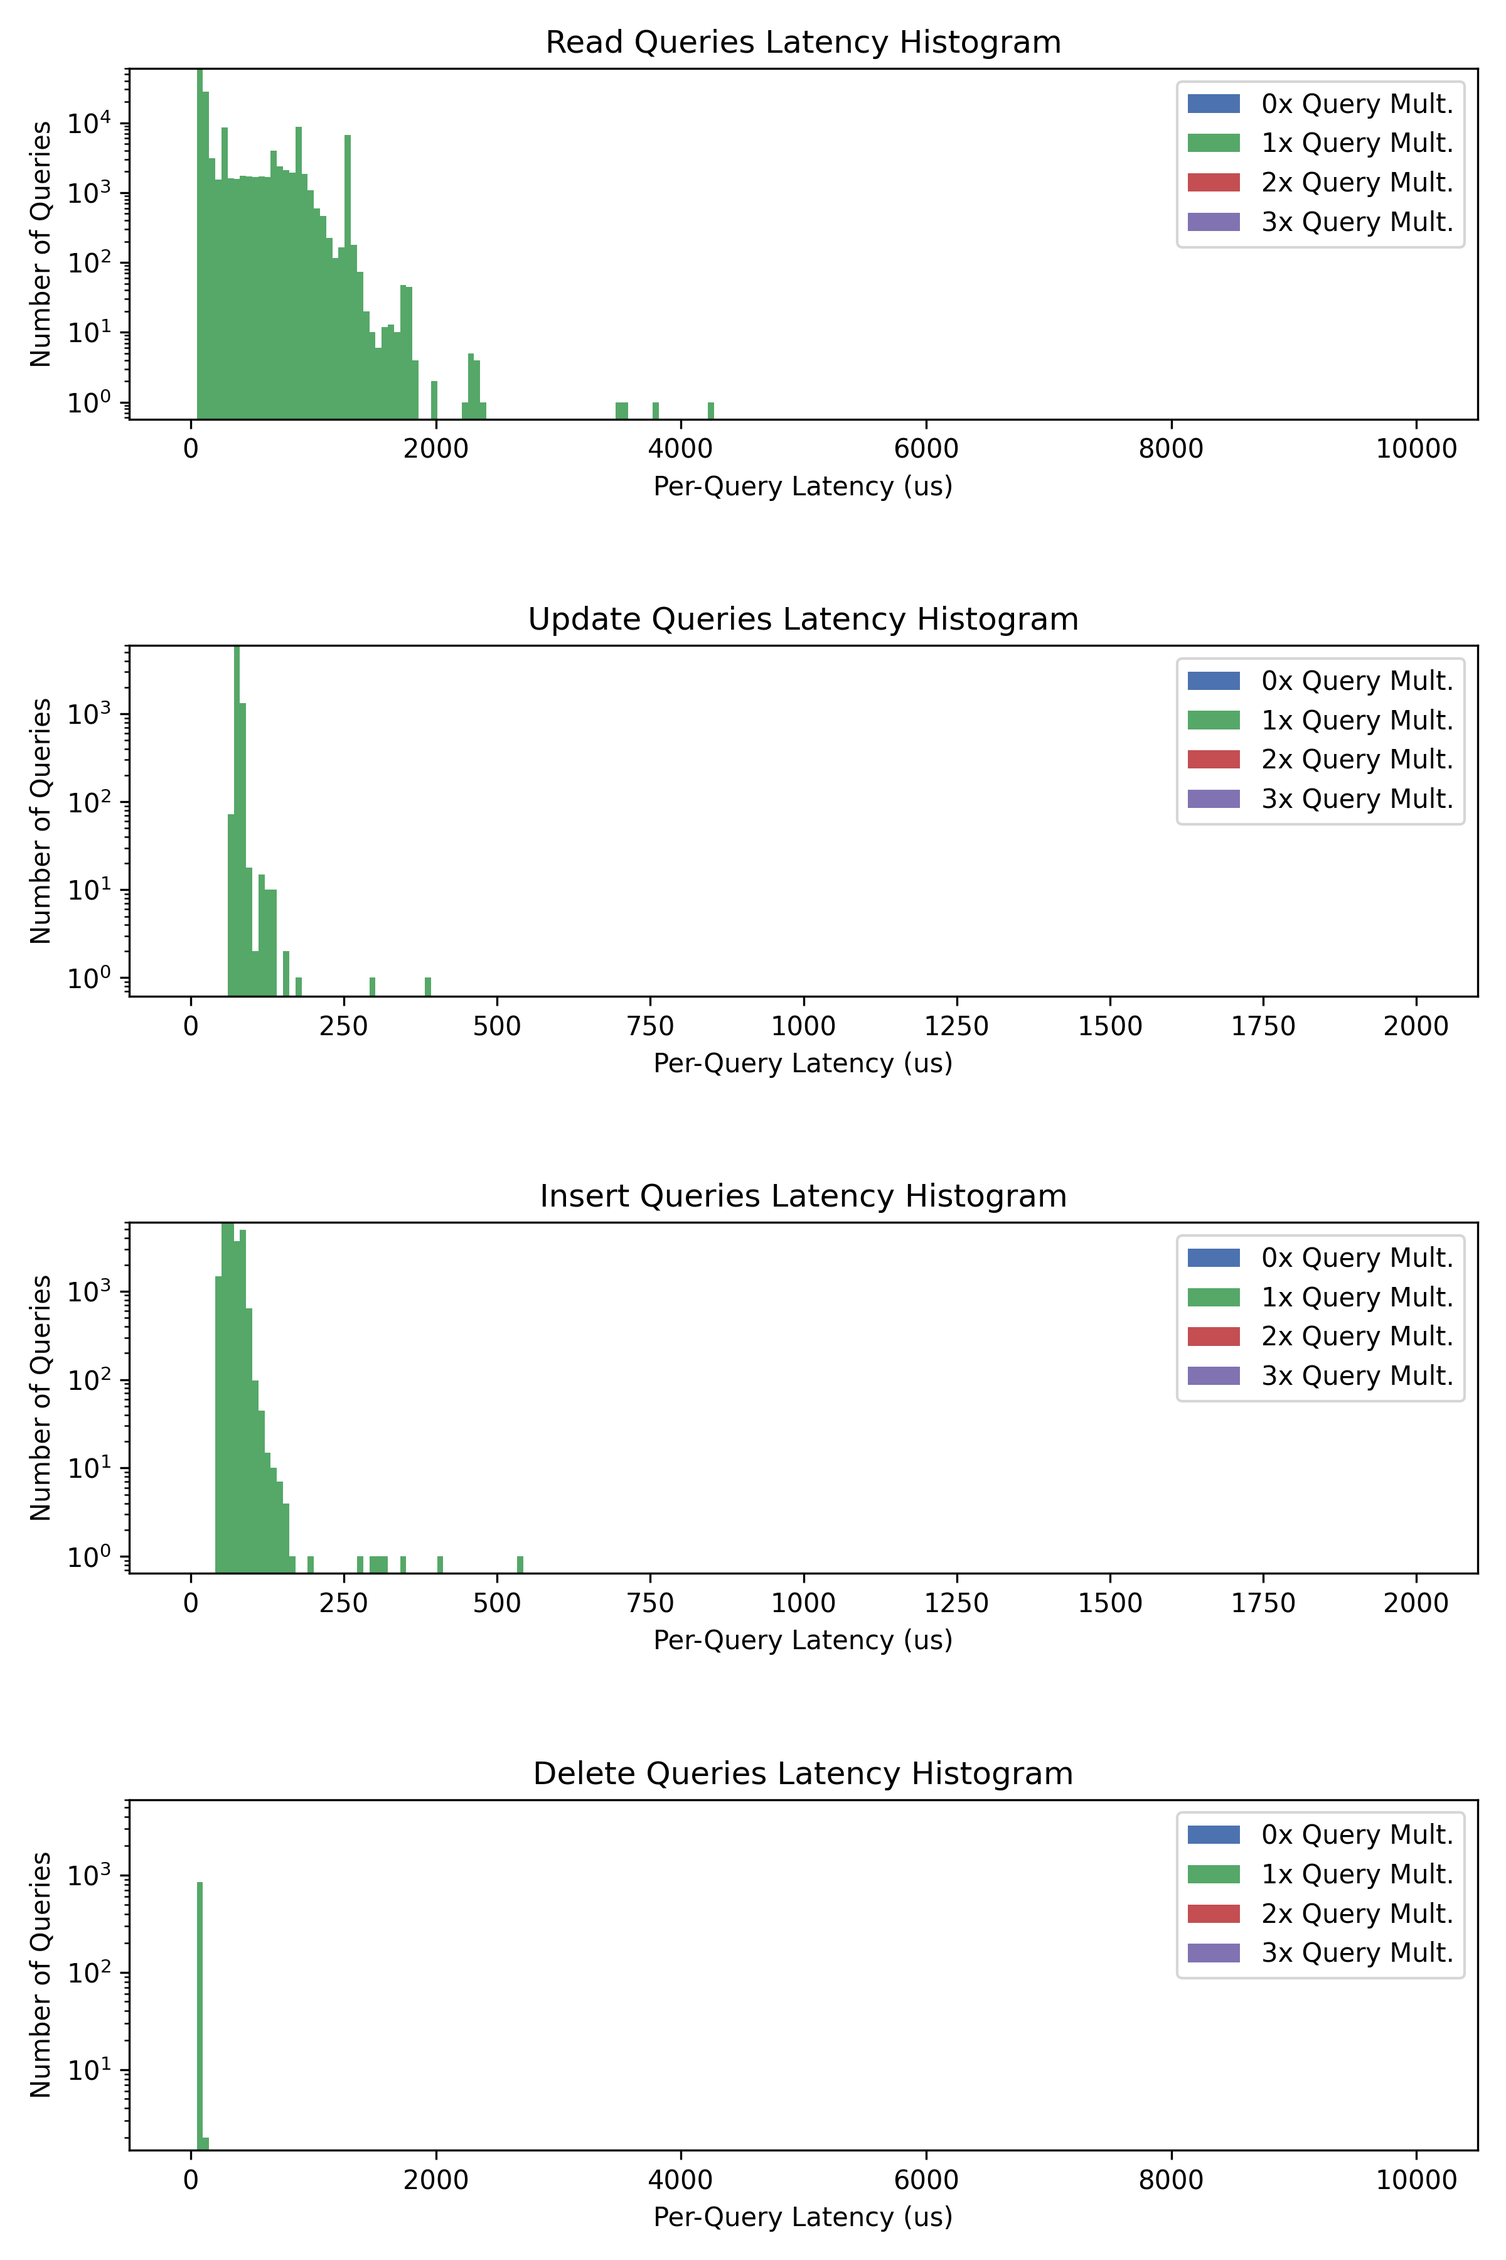
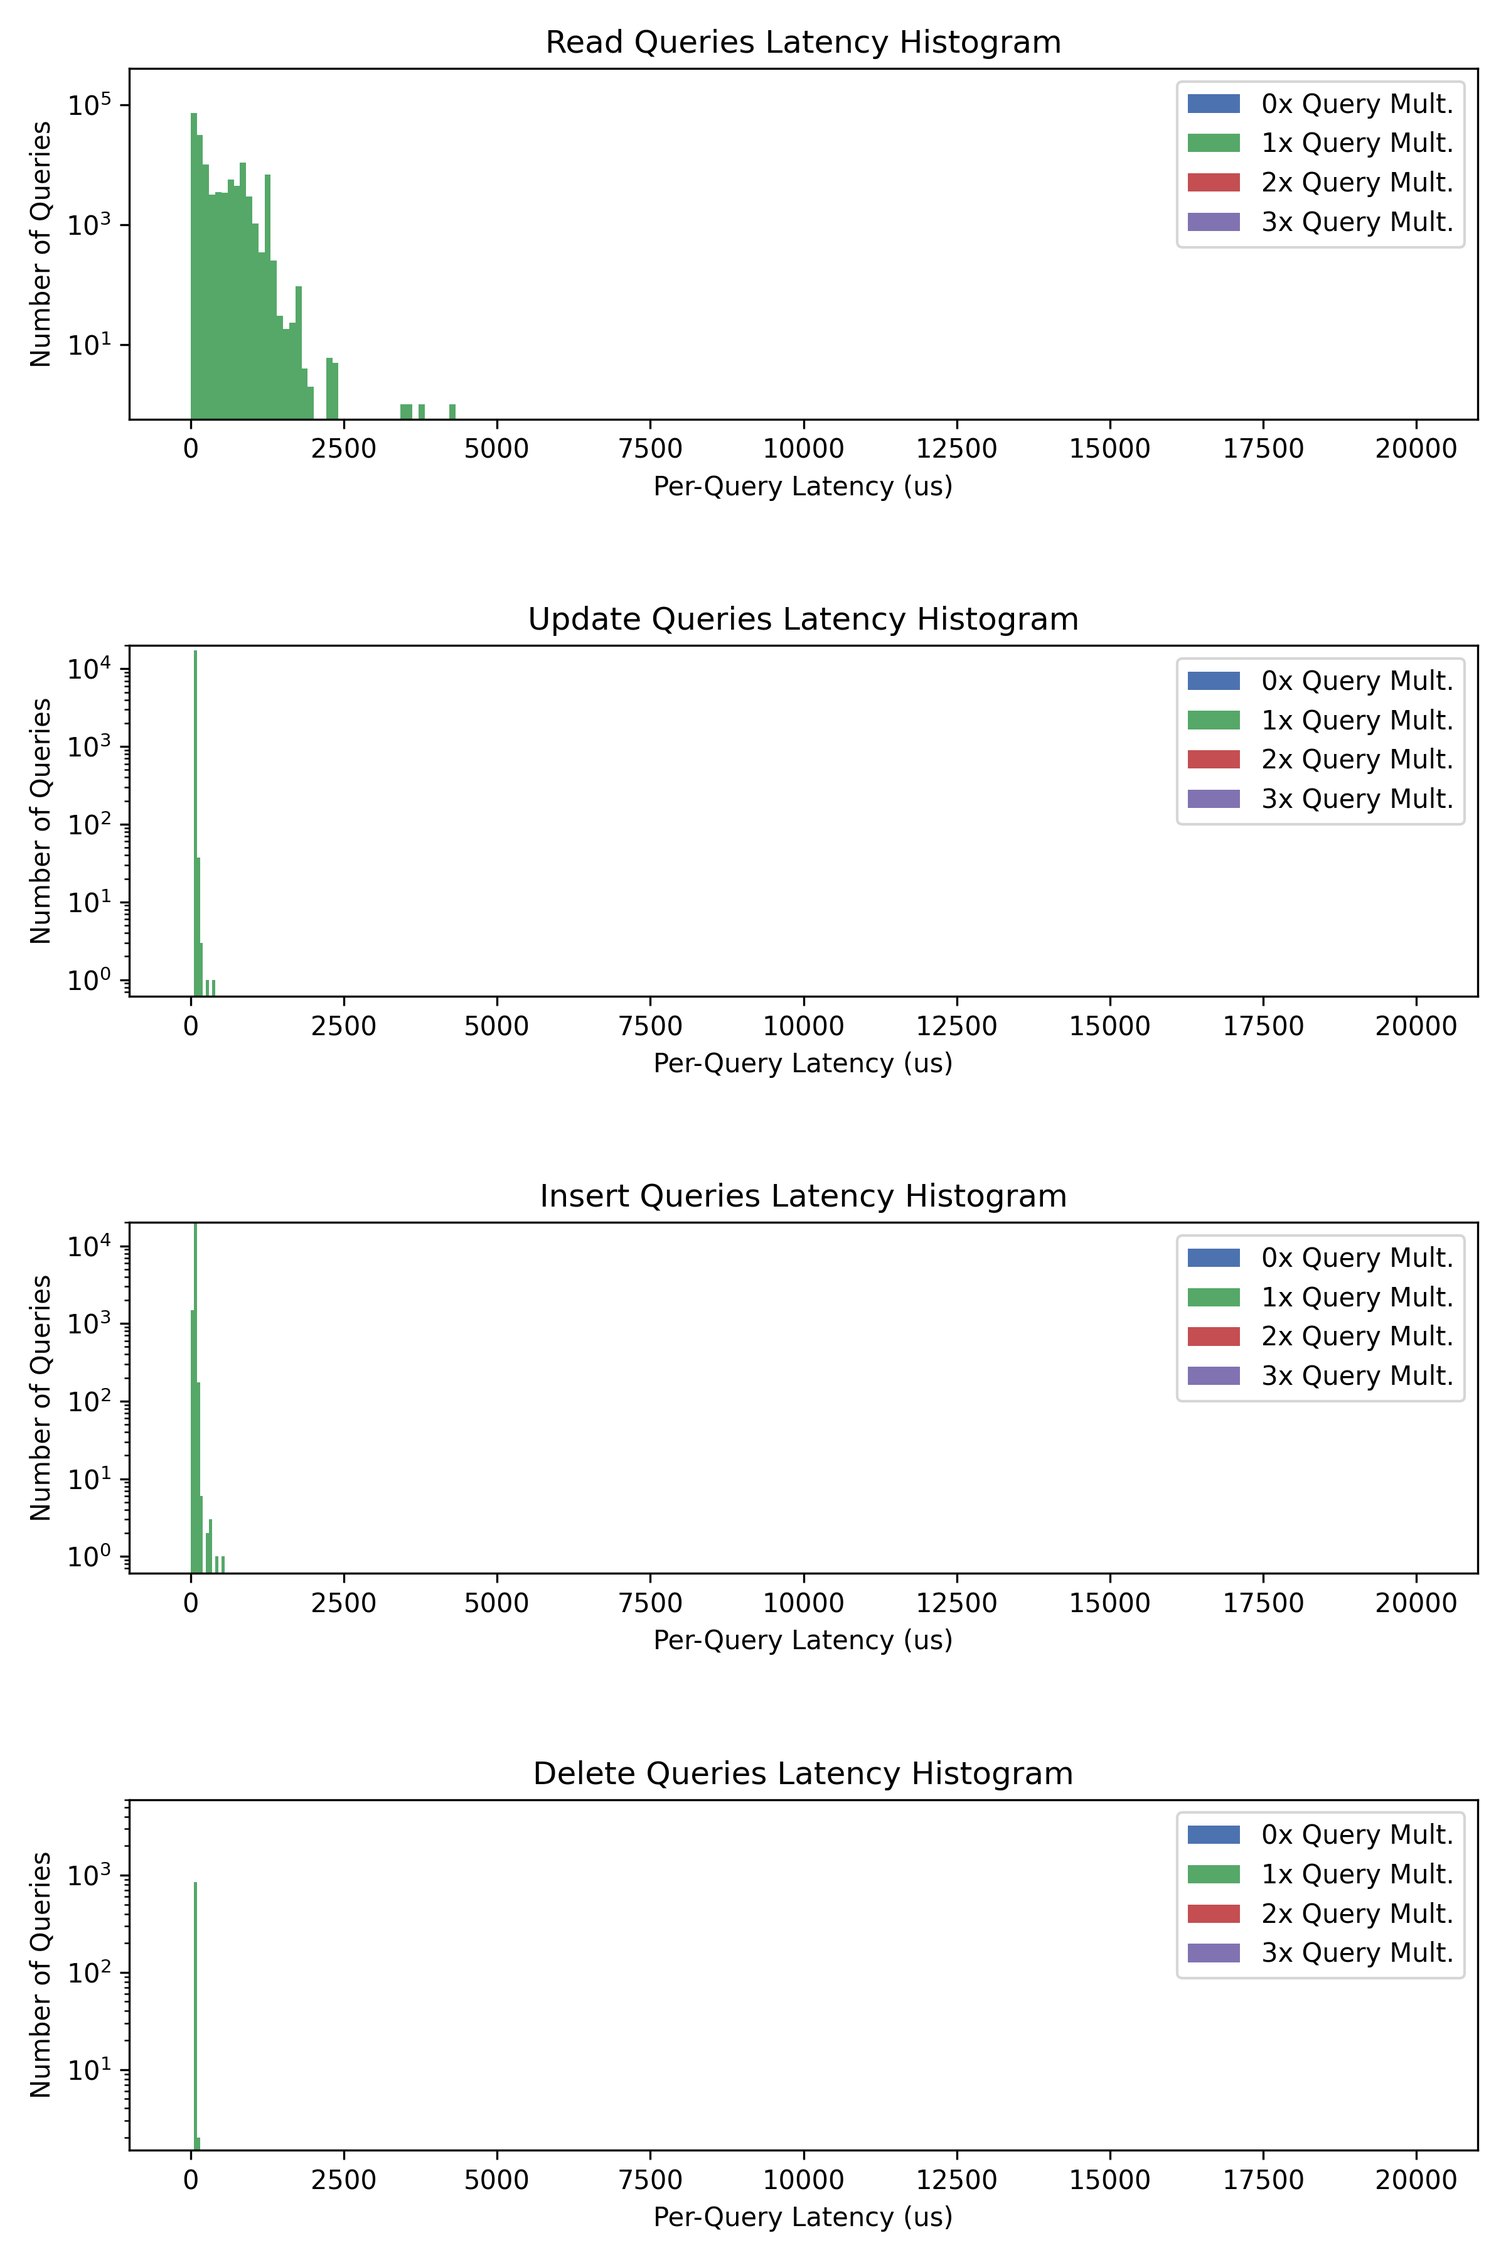
writing up eval

diff --git a/osdi21/eval.tex b/osdi21/eval.tex
@@ -1,16 +1,120 @@
 %-------------------------------------------------------------------------------
 \section{Evaluation}
 %-------------------------------------------------------------------------------
-
 We evaluate \sys{} on two metrics: (1) can desired decorrelation policies be easily specified using the
 provided decorrelation primitives for a range of practical applications?, and (2) can decorrelation
 be supported with low performance overhead?
 
 Our evaluation exemplifies how a suite of applications (Lobste.rs, \lyt{TODO}) can express a diverse
-range of privacy policies using \sys{} with low developer effort.
+range of privacy policies using \sys{} with low developer effort with low overhead.
 
-\subsection{Lobste.rs}
+\subsection{Example policies}
+\begin{figure}
+\begin{lstlisting}[language=Rust]
+use GhostColumnPolicy, GeneratePolicy;
+let ghost_policies = GhostGenerationPolicy::new(
+  ("users", 
+     [("id", Generate(Random)),
+     ("username", Generate(Random)),
+     ("karma", Generate(Default(0)))]),
+  ...);
+
+let edge_policies = vec![
+  KeyRelationship{
+    child: "stories".to_string(),
+    parent: "users".to_string(),
+    column_name: "user_id".to_string(),
+    parent_child_decorrelation_policy: Decor,
+    child_parent_decorrelation_policy: NoDecorRetain,
+  },
+  KeyRelationship{
+    child: "taggings".to_string(),
+    parent: "tags".to_string(),
+    column_name: "tag_id".to_string(),
+    parent_child_decorrelation_policy: 
+        NoDecorSensitivity(0.25),
+    child_parent_decorrelation_policy: NoDecorRetain,
+  },
+  ...];
+
+ ApplicationPolicy {
+    entity_type_to_decorrelate: "users",
+    ghost_policies: ghost_policies,
+    edge_policies: edge_policies,
+ }
+\end{lstlisting}
+    \label{fig:policy}
+    \caption{Excerpt of the Lobsters Application Policy}
+\end{figure}
+
+We provide several variants of an application policy for Lobsters. Each requires specifying at most 17 key
+relationships and at most 5 ghost entity generation policies (see Figure~\ref{fig:policy} for an example
+of what these policies). The total number of lines that a developer must write range from \lyt{TODO}
+to \lyt{TODO} LoC (current policy is 190LoC).
+
+The first policy replicates what the behavior of the current Lobsters deployment upon user
+unsubscription, with the exception that users are replaced with ghost users rather than a global
+placeholder. This requires specifying \texttt{Decor} policies for all edges from entities with users
+as parents, resulting in the developer writing 9 edge policies and one ghost generation policy (for
+ghost users). While this policy does nothing significant, splitting a user into multiple ghosts as
+compared to a global placeholder allows the user to resubscribe by identifying their ghost
+counterparts, whereas a global placeholder does not. Furthermore, splitting users into multiple
+users as compared to grouping them together upon unsubscription may benefit privacy: global
+placeholder users indicate that any child of the placeholder belongs to some deleted user, whereas
+ghost users may more successfully mask which children have been abandoned.
+
+The second policy adds decorrelation of 
+
+\subsection{Performance}
+\paragraph{Experimental Setup.}
 The performance experiments reported are run on Intel Xeon E5-2660 v3 CPUs, with a
-single-threaded client and \sys{}'s shim layer each pinned to a single core. \sys{} utilizes the
-trawler workload~\cite{trawler} for Lobste.rs, which emulates production Lobste.rs traffic according
-to a recorded production workload. 
+single-threaded client and \sys{}'s shim layer each pinned to a single core. \sys{} runs on top of 
+MariaDB (v10.4.13). 
+
+We compare the application execution performance on four systems, all of which configure MariaDB to
+store the database on a ramdisk to avoid disk IO overheads.
+\begin{enumerate}
+    \item \texttt{NoShim}: queries are directly issued to a MariaDB instance;
+    \item \texttt{Shim}: queries are intercepted by the shim layer,
+        which does nothing more than send queries to the MariaDB instance and
+        return the results back to the client;
+    \item \texttt{ShimParsing}: queries are intercepted the shim layer, parsed into a
+        SQL AST (which is discarded), and then sent to the MariaDB instance; the shim then returns the results to the
+        client. 
+    \item \texttt{\sys{}}: queries are intercepted by the shim layer and parsed into a SQL AST. \sys{}
+        then processes the parsed query, potentially introducing ghost entities and sending additional queries to the MariaDB backend.
+        \sys{} then returns results to the client.
+\end{enumerate}
+
+We compare \texttt{NoShim} and \texttt{Shim} to define the cost of query interception; \texttt{Shim}
+and \texttt{ShimParsing} to define the cost of query parsing; and \texttt{ShimParsing} and
+\texttt{\sys{}} to define the cost of adding decorrelation and recorrelation support.  \texttt{Shim}
+provides an upper bound for \sys{}'s (single-threaded) performance, as the costs of query parsing
+and decorrelation are not necessarily fundamental.
+
+\paragraph{Lobste.rs Performance}
+\sys{} utilizes the trawler workload~\cite{trawler} for Lobsters, which emulates production
+Lobsters traffic according to a recorded production workload. The database initially begins with 1.5K
+users, 10K stories, and 30K comments (1/4 the size of the the real Lobsters deployment), and issues
+queries according to the recorded traffic distribution. The query distribution skews towards reads
+(recent and frontpage stories) over writes (votes, commenting, and posting of stories); the
+workload assumes that users with popular content are also more active and likely to post stories,
+comment, and vote.
+
+The benchmarks perform 10000 actions, each performing on average 8 application queries. 
+We measure (1) overall throughput, (2) the distribution of application query
+latencies, and (3) the query multiplication per application query performed by \sys{}.
+
+The first benchmark measures \sys{}'s performance during \emph{normal execution}, namely when only
+read and update actions performed by Lobsters are executed.
+
+The second benchmark measures \sys{}'s performance with 10\% of the actions being unsubscription. If
+an unsubscribed user is chosen to perform an action, this user is first resubscribed.
+\texttt{NoShim}, \texttt{Shim}, and \texttt{ShimParsing} simply delete or insert the chosen user on
+unsubscription or resubscription respectively; this provides a very conservative estimate of the
+amount of work these baseline systems would need to do if a user withdrew their data from the system.
+
+\lyt{overall throughput numbers here}
+
+
+

diff --git a/osdi21/design.tex b/osdi21/design.tex
@@ -1,42 +1,6 @@
 %-------------------------------------------------------------------------------
 \section{Design}
 %-------------------------------------------------------------------------------
-\begin{figure}
-\begin{lstlisting}[language=Rust]
- pub enum GeneratePolicy {
-     Random,
-     Default,
-     Custom(FnMut(ColumnValue) -> ColumnValue),
-     ForeignKey, 
- }
- pub enum GhostColumnPolicy {
-     CloneAll,
-     CloneOne(gp: GeneratePolicy),
-     Generate(gp: GeneratePolicy),
- }
- pub type GhostPolicy = 
-    HashMap<Column, GhostColumnPolicy>;
- pub type EntityGhostPolicies = 
-    HashMap<EntityName, GhostPolicy>;
-
-pub enum DecorrelationPolicy {
-     NoDecorRemove,
-     NoDecorRetain,
-     NoDecorSensitivity(f64),
-     Decor,
- }
- pub struct KeyRelationship {
-     child: EntityName,
-     parent: EntityName,
-     column_name: String,
-     decorrelation_policy: DecorrelationPolicy,
- }
- pub type ApplicationPolicy = 
-    (EntityGhostPolicies, Vec<KeyRelationship>);
-\end{lstlisting}
-    \caption{\sys{}-provided types to specify key relationships and ghost generation policies.}
-\end{figure}
-
 \sys{} models an application's schema as a graph of data \emph{entities}. Each entity type corresponds to
 an application data table, such as stories, users, or votes. 
 Entities are linked in the entity graph by foreign key relationships: table columns that act as foreign keys to other tables create child-parent relationships between
@@ -82,7 +46,6 @@ chosen to be random, a default value, or generated from the original value via a
 
 
 \subsubsection{Decorrelation Policies}
-
 \paragraph{Policy 1: Decorrelate.}
 Application developers specify that the relationship may be decorrelated.
 \sys{} generates a ghost parent entity for the child entity according to the parent entity's ghost
@@ -199,6 +162,8 @@ Given this specification and an entity to be decorrelated as input, \sys{} acts 
         can still be retained.
 \end{enumerate}
 
+An example of these three decorrelation steps is shown in Figure~\ref{fig:algo}.
+
 \subsubsection{Achieving the Sensitivity Threshold}
 \label{sensitivity_algo}
 Let $E$ be the subset of edges traversed by \sys{} in Step 1 of execution. 
@@ -233,9 +198,8 @@ decorrelated).
 
 \begin{figure}[t!]
     \includegraphics[width=.5\textwidth]{img/algo}
+    \label{fig:algo}
     \caption{Examples of \sys{}'s execution.}
-    %different decorrelation policies. (a) full
-    %decorrelation; (b) only direct user decorrelation; (c) decorrelation of stories clustered around tags with threshold 0.25}
 \end{figure}
 
 %\paragraph{Example policy.}

diff --git a/osdi21/impl.tex b/osdi21/impl.tex
@@ -2,7 +2,7 @@
 \section{Implementation}
 %-------------------------------------------------------------------------------
 
-\sys{} introduces in-memory shim layer on top of a MariaDB database, 
+\sys{} introduces in-memory shim layer on top of a MySQL database, 
 allowing \sys{} to intercept and process queries sent by the application frontend. 
 To amortize the cost of unsubscription and resubscription, \sys{} preemptively creates, stores, and
 links ghost parent entities to child entities if an update creates an edge that may be decorrelated.
@@ -12,9 +12,52 @@ propagate to the materialized views when the underlying database is updated. \sy
 application queries using these materialized views, hiding the complexity of ghost entity and
 decorrelation management.
 
-\sys{} is build in 5K LoC of Rust, and supports a subset of MySql. \sys{} adds \texttt{UNSUBSCRIBE
+\sys{} is build in 5K LoC of Rust, and supports a subset of MySQL. \sys{} adds \texttt{UNSUBSCRIBE
 [user]} and \texttt{RESUBSCRIBE [user] WITH [user\_data]} calls to the query language.
 \lyt{Should I mention details like query parsing, single-threaded?}
+Application developers specify and provide an \texttt{ApplicationPolicy} using the objects shown in
+Figure~\ref{fig:policytype} \lyt{Why is this showing the wrong figure number??}.
+
+\begin{figure}
+\begin{lstlisting}[language=Rust]
+ pub enum GeneratePolicy {
+     Random,
+     Default,
+     Custom(FnMut(ColumnValue) -> ColumnValue),
+     ForeignKey, 
+ }
+ pub enum GhostColumnPolicy {
+     CloneAll,
+     CloneOne(gp: GeneratePolicy),
+     Generate(gp: GeneratePolicy),
+ }
+ pub type GhostPolicy;
+    HashMap<Column, GhostColumnPolicy>;
+ pub type EntityGhostPolicies = 
+    HashMap<EntityName, GhostPolicy>;
+
+pub enum DecorrelationPolicy {
+     NoDecorRemove,
+     NoDecorRetain,
+     NoDecorSensitivity(f64),
+     Decor,
+ }
+ pub struct KeyRelationship {
+     child: EntityName,
+     parent: EntityName,
+     column_name: String,
+     parent_child_decor_policy: DecorrelationPolicy,
+     child_parent_decor_policy: DecorrelationPolicy,
+ }
+ pub struct ApplicationPolicy {
+     entity_type_to_decorrelate: EntityName,
+     ghost_policies: EntityGhostPolicies,
+     edge_policies: Vec<KeyRelationship>,
+ }
+\end{lstlisting}
+    \label{fig:policytype}
+    \caption{\sys{}-provided types to specify key relationships and ghost generation policies.}
+\end{figure}
 
 \subsection{Data Objects}
 In addition to the original application data tables, \sys{} stores a persistent mapping from entity

diff --git a/osdi21/related.tex b/osdi21/related.tex
@@ -98,18 +98,6 @@ dataset).  \sys{}'s decorrelation, in fact, adds more noise than necessary in th
 of unique users who posted about cats will be more imprecise because each post by a decorrelated
 user is now associated with a unique (ghost) user.
 
-%\sys{} provides the highest granularity of decorrelation possible (for integer
-%identifiers)\lyt{(Not sure about this claim for highest granularity, since noise / fake records
-%could also be introduced?)}.
-
-%First, differential privacy guarantees are formally defined on a fixed dataset; \sys{} aims to
-%ensure privacy in the context of changing datasets, as is common in social media settings where
-%users constantly add, update, and delete content.  While differential privacy-defined loss can be
-%computed for a particular query on data set snapshots and added together by treating snapshots as
-%independent, potential privacy loss from queries performed on a flucuating dataset, where the
-%flucuations in the dataset might themselves leak information, has not been formally defined.  PINQ supports
-%data analysis queries only on a fixed dataset.
-
 \subsection{Deletion Privacy}
 The right to be forgotten has also been formally defined by Garg et
 al.~\cite{garg}, where correct deletion corresponds to the notion of
@@ -127,4 +115,5 @@ Potentially other related works:
         %talk about decoy deletion, prescheduled deletion strategies~\cite{myfw}
     \item Contextual Integrity
     \item ML Unlearning
+    \item Database IFC (sensitive data flowing down edges?)
 \end{itemize}

diff --git a/decor/benchmarks/plot.py b/decor/benchmarks/plot.py
@@ -6,13 +6,13 @@ plt.style.use('seaborn-deep')
 
 tests = ["decor", "shim_only", "shim_parse"]
 names = ["Read", "Update", "Insert", "Unsub", "Resub", "Delete"]
-ybounds = [60000, 6000, 6000, 6000, 6000, 6000]
-bins = [np.linspace(0, 10000, 200),
-    np.linspace(0, 2000, 200),
-    np.linspace(0, 2000, 200),
-    np.linspace(0, 10000, 200),
-    np.linspace(0, 10000, 200),
-    np.linspace(0, 10000, 200),
+ybounds = [400000, 20000, 20000, 6000, 6000, 6000]
+bins = [np.linspace(0, 20000, 200),
+    np.linspace(0, 20000, 400),
+    np.linspace(0, 20000, 400),
+    np.linspace(0, 20000, 400),
+    np.linspace(0, 20000, 400),
+    np.linspace(0, 20000, 400),
 ]
 
 for test in tests:
